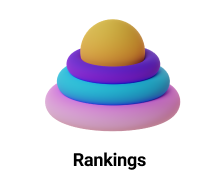
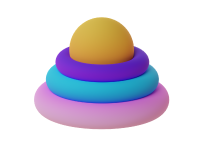
feat/ Ranking screen UI

diff --git a/screens/RankingsScreen/index.tsx b/screens/RankingsScreen/index.tsx
@@ -1,13 +1,49 @@
 import React from "react";
-import { View, Text } from "react-native";
+import { View, Text, Image, FlatList } from "react-native";
+import styles from "./styles";
+const image = require("../../assets/images/Saly-20.png");
+import UserRankingItem from "../../components/UserRankingItem";
 
-const RankingsScreen = () => {
+const portfolioCoins = [{
+  id: "0",
+  name: "DAI",
+  image: "https://notjustdev-dummy.s3.us-east-2.amazonaws.com/avatars/1.jpg",
+  netWorth: 65772
+},
+{
+  id: "1",
+  name: "Dollar Thether",
+  image: "https://notjustdev-dummy.s3.us-east-2.amazonaws.com/avatars/1.jpg",
+  netWorth: 65772
+},
+{
+  id: "2",
+  name: "Ethereum",
+  image: "https://notjustdev-dummy.s3.us-east-2.amazonaws.com/avatars/1.jpg",
+  netWorth: 65772
+},
+{
+  id: "3",
+  name: "Bitcoin",
+  image: "https://notjustdev-dummy.s3.us-east-2.amazonaws.com/avatars/1.jpg",
+  netWorth: 65772
+},
+]
 
-    return (
-      <View style={{flex: 1, justifyContent: "center", alignItems: "center" }}>
-        <Text></Text>
-      </View>
-    )
-}
+const RankingScreen = () => {
 
-export default RankingsScreen;
+  return (
+    <View style={styles.root}>
+      <FlatList style={{ width: "100%" }} data={portfolioCoins} renderItem={({ item, index }) => <UserRankingItem user={item} place={index} key={item.id} />}
+        ListHeaderComponentStyle={{alignItems: "center"}} showsVerticalScrollIndicator={false}
+        ListHeaderComponent={() => (
+          <>
+            <Image style={styles.image} source={image}/>
+            <Text style={styles.label}>Rankings</Text>
+          </>
+        )} />
+    </View>
+  );
+};
+
+export default RankingScreen;

diff --git a/components/UserRankingItem/index.tsx b/components/UserRankingItem/index.tsx
@@ -1,0 +1,33 @@
+import React from 'react';
+import { View, Text, Image } from "react-native";
+import {styles} from "./styles";
+
+export interface UserRankingItemProps {
+    user: {
+        image: string,
+        name: string,
+        netWorth: number,
+    },
+    place: number
+}
+
+const UserRankingItem = (props: UserRankingItemProps) => {
+    const { user: { image, name, netWorth }, place } = props;
+
+    return (
+        <View style={styles.root}>
+            <View style={styles.left} >
+                <Text>{place}</Text>
+                <Image style={styles.image} source={{ uri: image }} />
+                <View>
+                    <Text style={styles.name}>{name}</Text>
+                </View>
+            </View>
+            <View style={{alignItems: "flex-end"}} >
+                <Text style={styles.name}>${netWorth} </Text>
+            </View>
+        </View>
+    );
+};
+
+export default UserRankingItem;

diff --git a/screens/RankingsScreen/styles.ts b/screens/RankingsScreen/styles.ts
@@ -1,0 +1,21 @@
+import { StyleSheet } from "react-native";
+
+const styles = StyleSheet.create({
+
+    root: {
+        flex: 1,
+        alignItems: "center",
+         padding: 20,
+         backgroundColor: "white"
+    },
+    image: {
+        height: 175,
+        resizeMode: "contain"
+    },
+    label: {
+        fontSize: 18,
+        fontWeight: "bold",
+    },
+});
+
+export default styles;

diff --git a/screens/MarketScreen/index.tsx b/screens/MarketScreen/index.tsx
@@ -1,8 +1,8 @@
 import React from "react";
 import { View, Text, Image, FlatList } from "react-native";
-import MarketCoin from "../../components/MarketCoin";
 import styles from "./styles";
 const image = require("../../assets/images/Saly-17.png");
+import MarketCoin from "../../components/MarketCoin";
 
 
 const portfolioCoins = [{

diff --git a/components/MarketCoin/index.tsx b/components/MarketCoin/index.tsx
@@ -1,6 +1,6 @@
 import React from 'react';
 import { View, Text, Image } from "react-native";
-import styles from './styles';
+import {styles} from "./styles";
 
 export interface MarketCoinProps {
     marketCoin: {

diff --git a/components/UserRankingItem/styles.ts b/components/UserRankingItem/styles.ts
@@ -31,6 +31,10 @@ export const styles = StyleSheet.create({
     },
     symbol: {
         color: "#6b6b6b"
-    }
+    },
+    place: {
+        fontSize: 18,
+        width: 20,
+    },
 });
 
